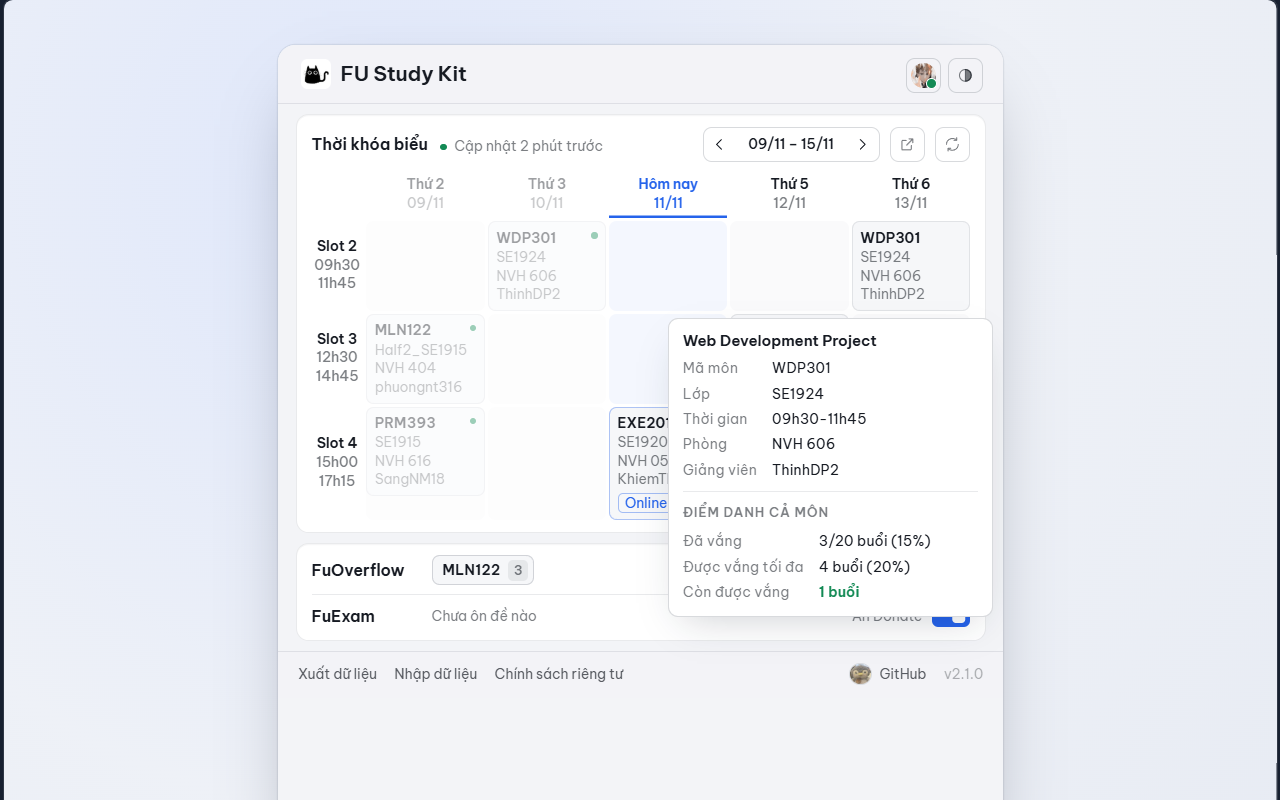
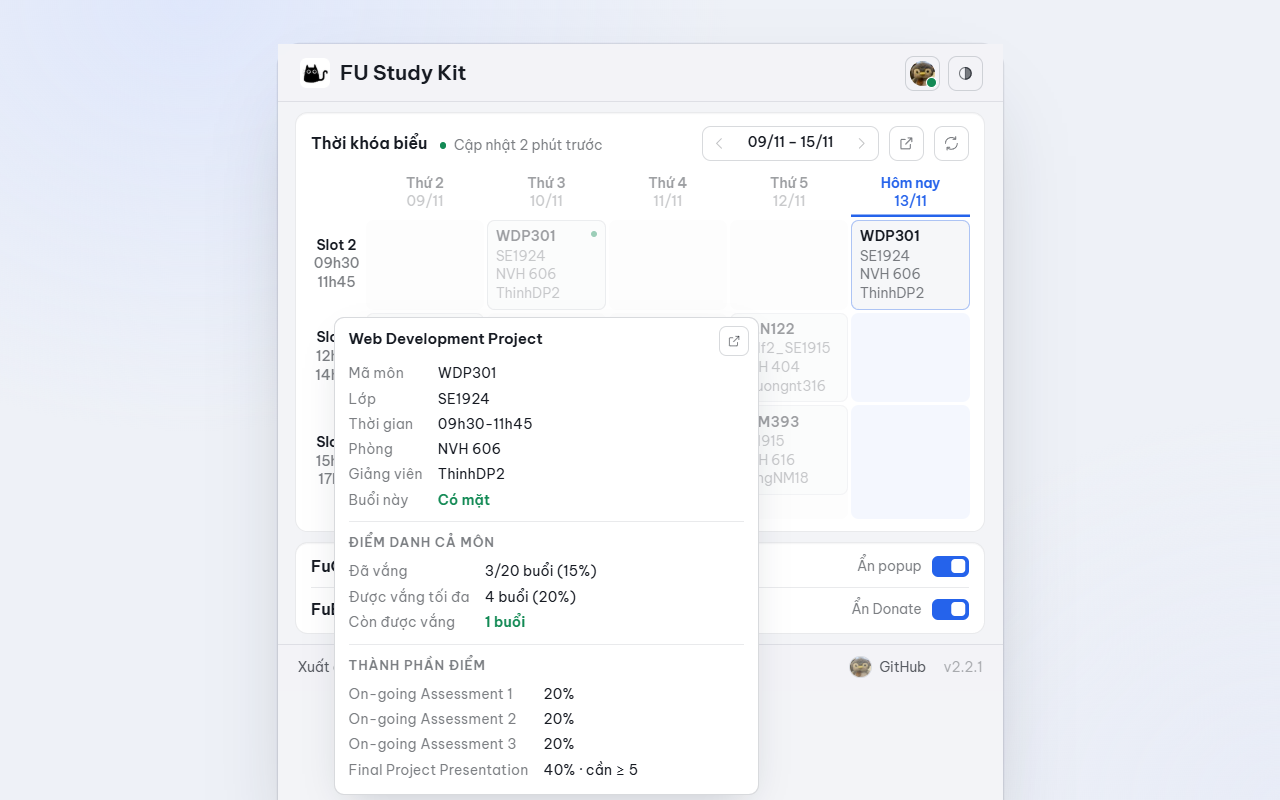
Retake the popup screenshot with grade components and the FLM button

diff --git a/README.md b/README.md
@@ -18,7 +18,7 @@ https://github.com/user-attachments/assets/7f9111ff-f5e7-4f6f-a9c2-8114c7d1459f
 
 | Thời khóa biểu và điểm danh FAP | Tài khoản Google: Drive và Calendar |
 |---|---|
-| ![Popup với thời khóa biểu và tooltip điểm danh](store/screenshots/03-popup.png) | ![Menu tài khoản với đồng bộ Drive và Calendar](store/screenshots/04-account.png) |
+| ![Popup với thời khóa biểu, tooltip điểm danh và thành phần điểm](store/screenshots/03-popup.png) | ![Menu tài khoản với đồng bộ Drive và Calendar](store/screenshots/04-account.png) |
 | **Checklist đề đã ôn trên FuOverflow / FuExam** | **Nhảy câu, gắn cờ, chụp kèm thảo luận** |
 | ![Danh sách đề với checkbox và thanh tiến độ](store/screenshots/01-list.png) | ![Khung xem ảnh đề với bảng số câu](store/screenshots/02-lightbox.png) |
 

diff --git a/README.en.md b/README.en.md
@@ -18,7 +18,7 @@ https://github.com/user-attachments/assets/7f9111ff-f5e7-4f6f-a9c2-8114c7d1459f
 
 | FAP timetable and attendance | Google account: Drive and Calendar |
 |---|---|
-| ![Popup with the timetable and an attendance tooltip](store/screenshots/03-popup.png) | ![Account menu with Drive and Calendar sync](store/screenshots/04-account.png) |
+| ![Popup with the timetable, attendance and grade components](store/screenshots/03-popup.png) | ![Account menu with Drive and Calendar sync](store/screenshots/04-account.png) |
 | **Revision checklist on FuOverflow / FuExam** | **Jump, flag, capture with discussion** |
 | ![Thread list with checkboxes and the progress bar](store/screenshots/01-list.png) | ![Image viewer with the question grid](store/screenshots/02-lightbox.png) |
 

diff --git a/store/listing.md b/store/listing.md
@@ -101,7 +101,7 @@ https://cdinhh.github.io/Extension-FU-Study-Kit/privacy.html
 
 1. `01-list.png`: thread list with checkboxes, badges and the progress bar.
 2. `02-lightbox.png`: image viewer with the question grid, flagged questions and screenshot tools.
-3. `03-popup.png`: popup with the FAP timetable and the attendance tooltip (light theme). Retake for 2.2.x so the tooltip shows the grade components.
+3. `03-popup.png`: popup with the FAP timetable and the course tooltip: attendance, grade components and the FLM button (light theme).
 4. `04-account.png`: account menu with Google Drive sync and the Google Calendar options (dark theme).
 5. `05-fuexam.png`: the checklist and progress bar on FuExam.
 
